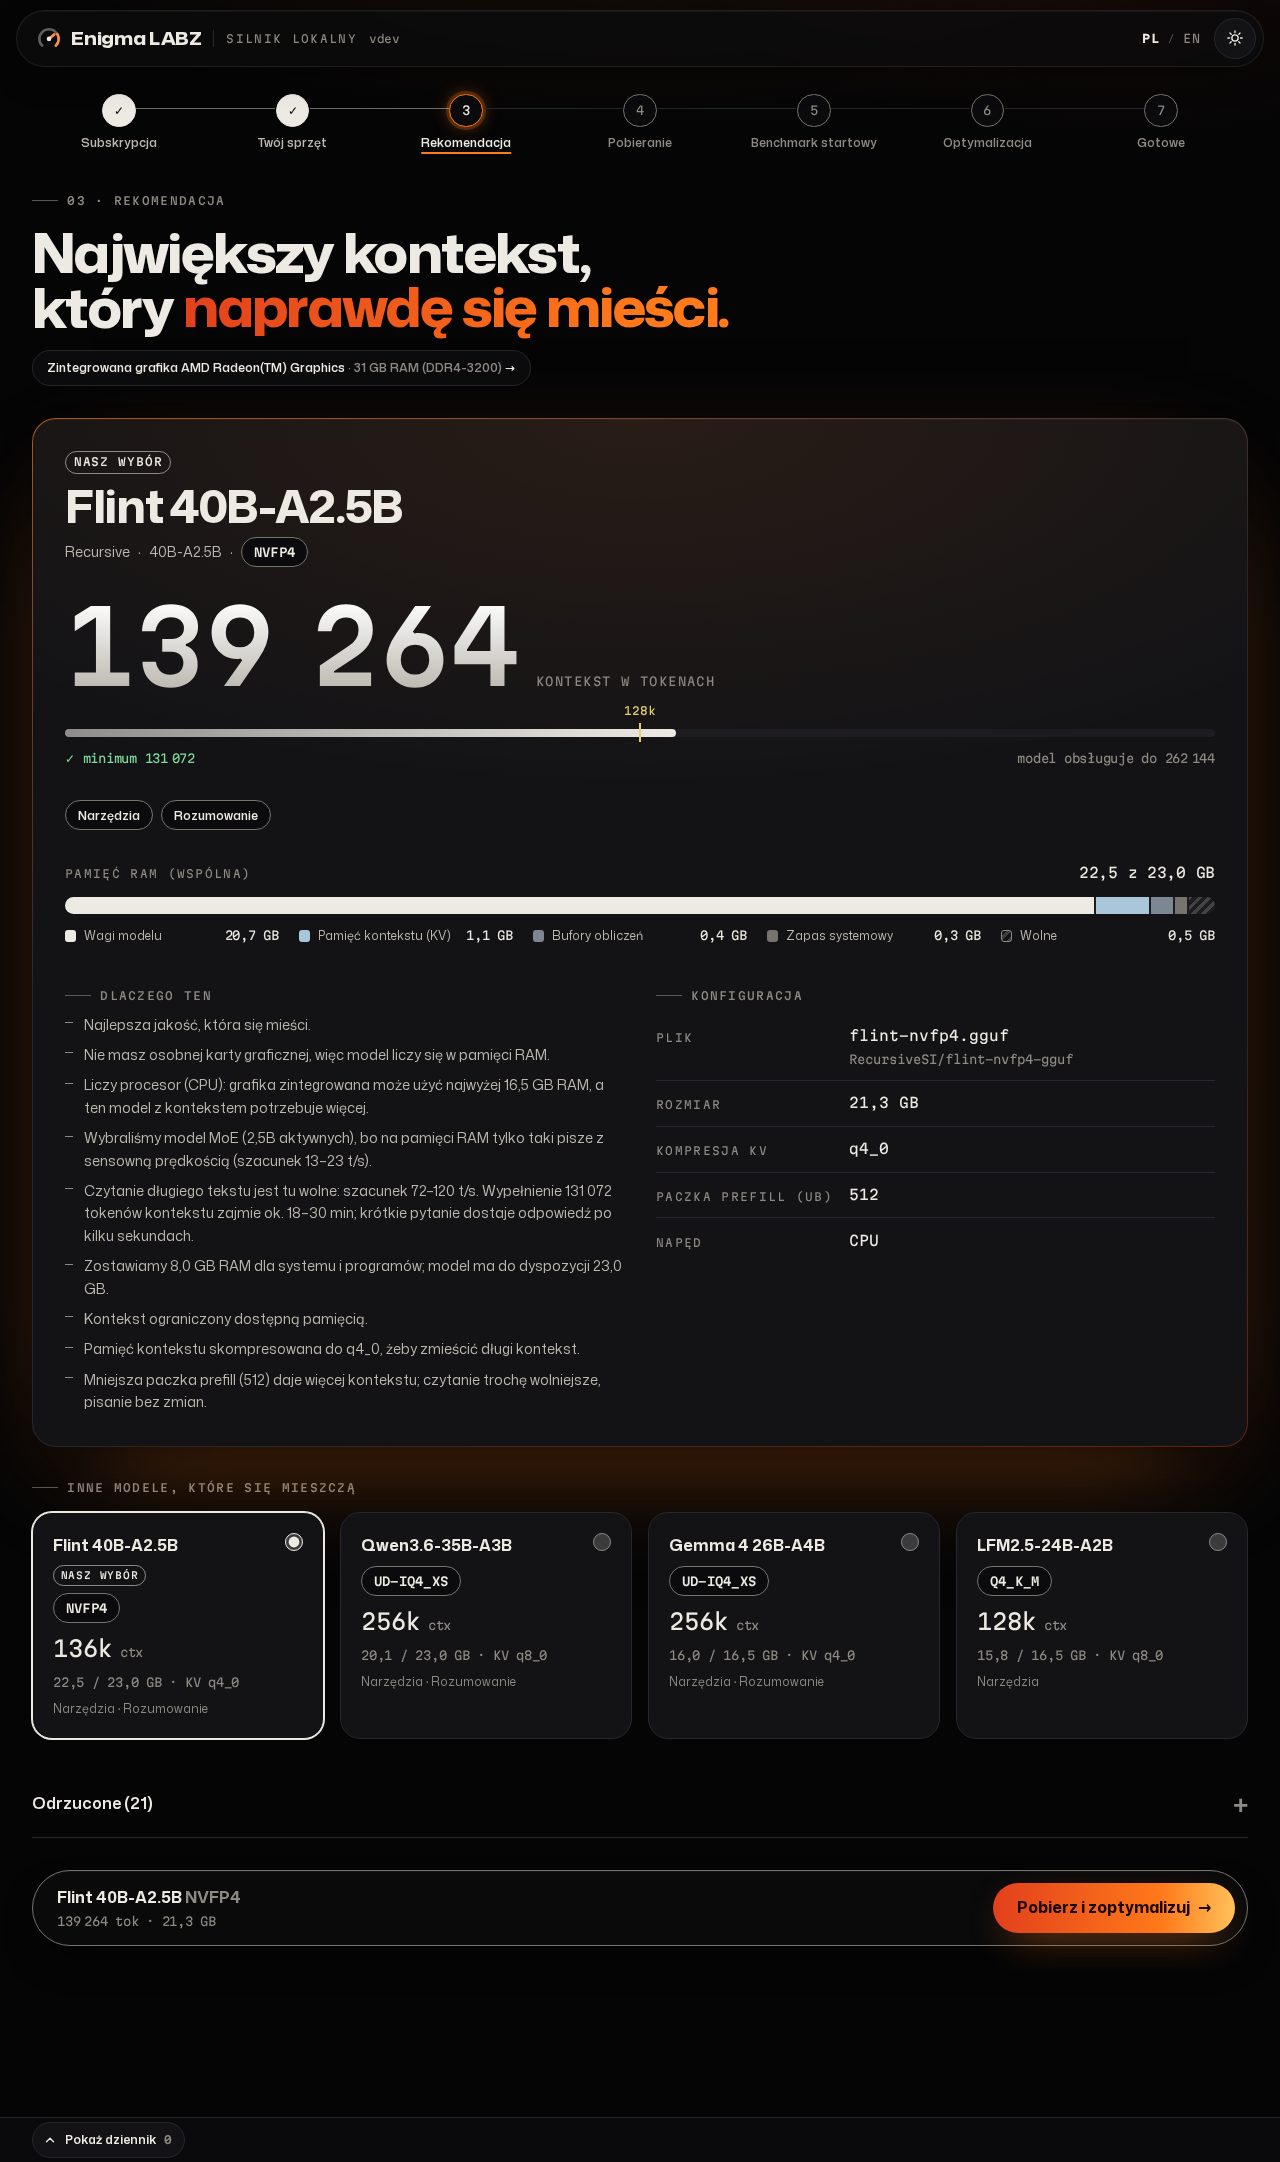
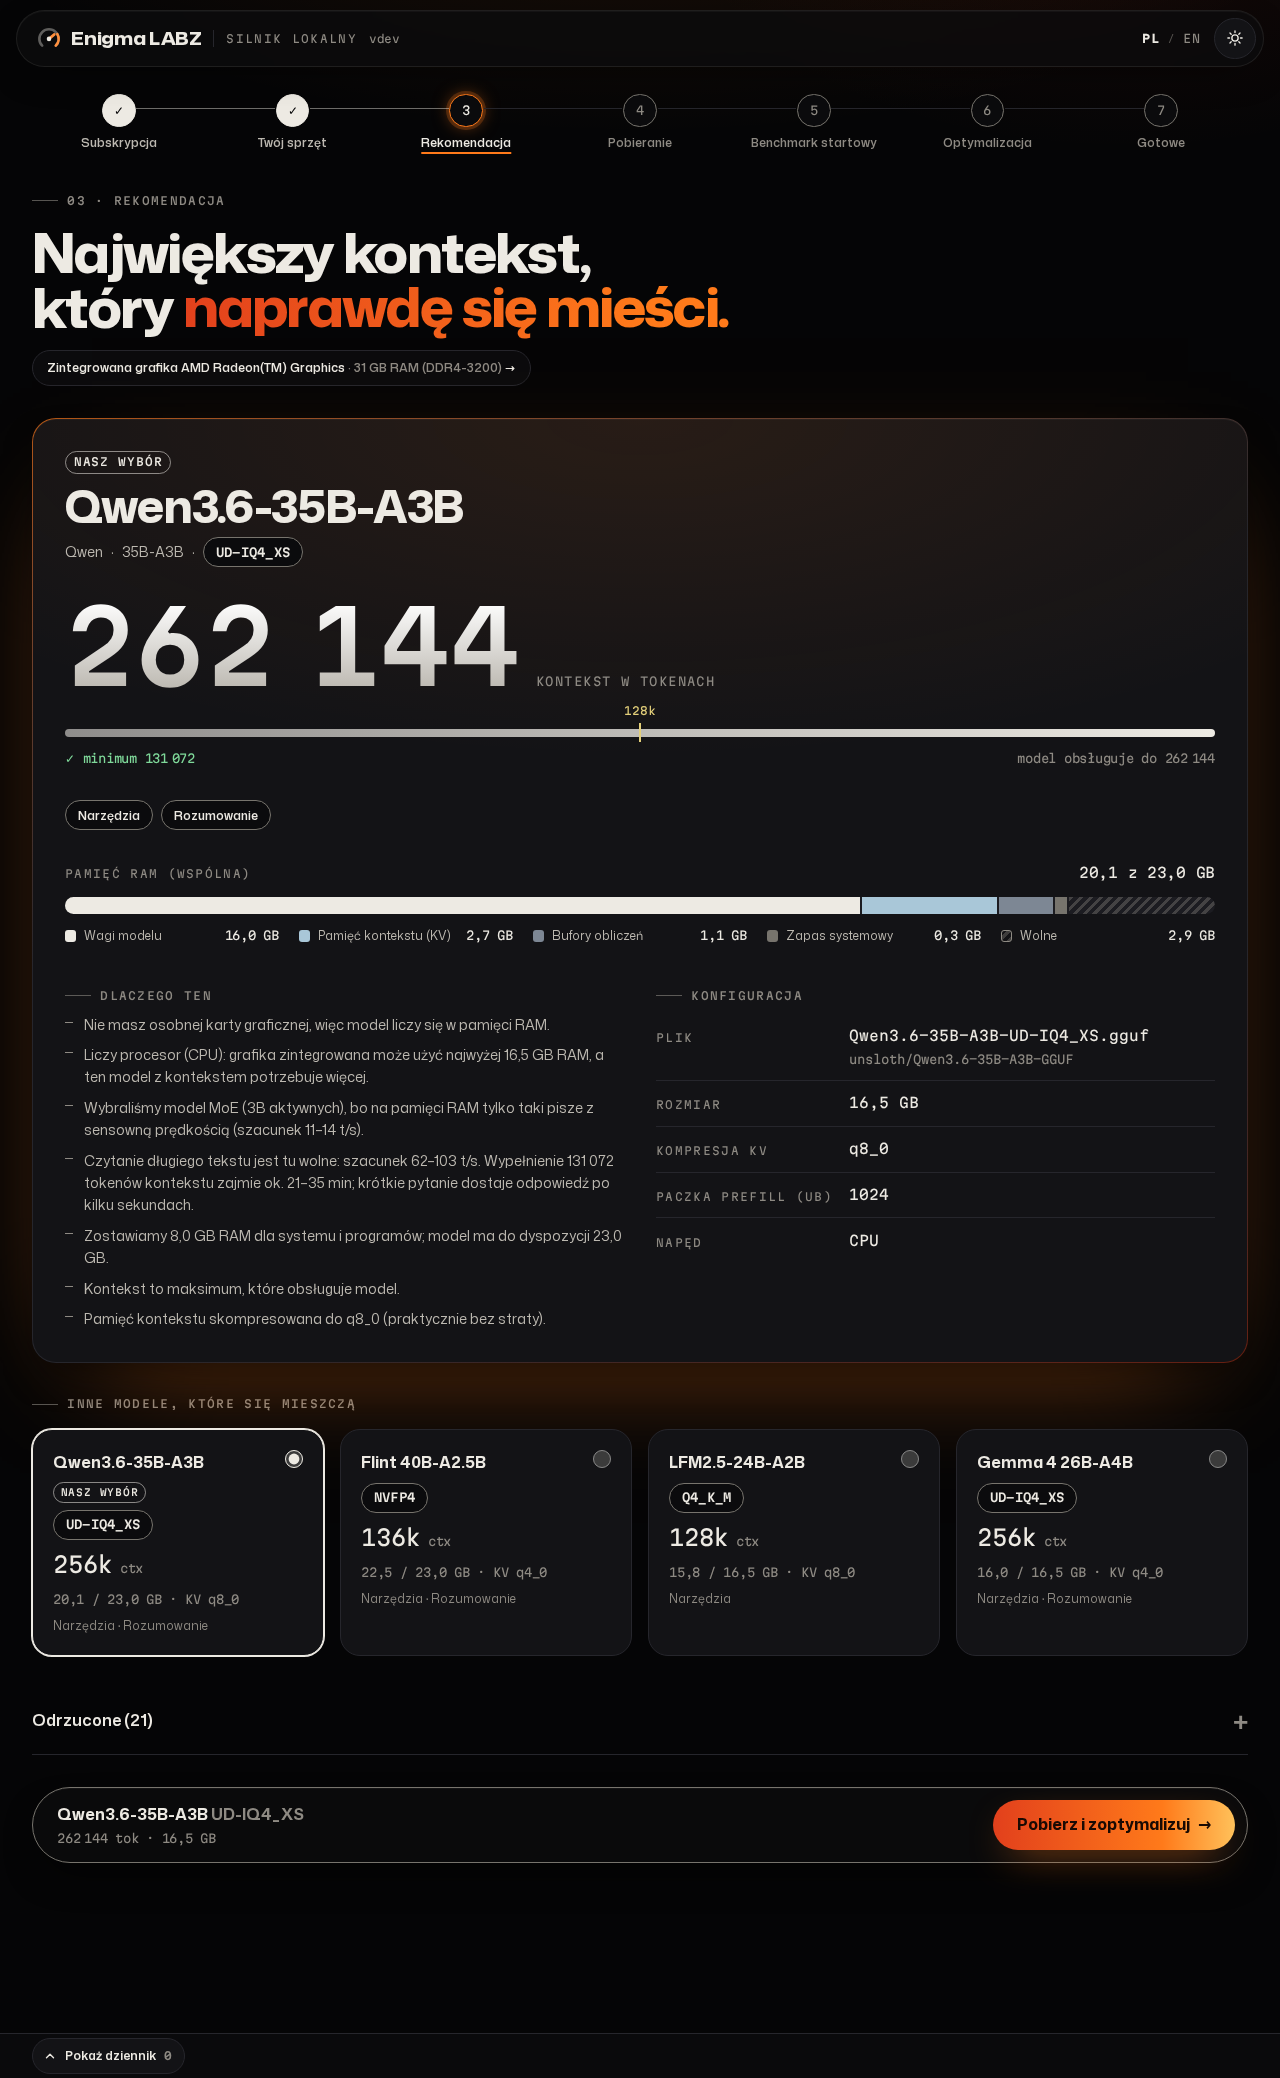
app/engine: ranking — zmierzona prędkość na tej klasie sprzętu wygrywa z szacowaną, chyba że szacunek > 20% wyżej; plany RAM z < 3% wolnego obniżane (tight_memory); APU 31 GB DDR4 → Qwen3.6-35B-A3B UD-IQ4_XS 262144 CPU (Flint alternatywą); wybory na kartach/Apple bez zmian; przebieg CPU dev skompilo

diff --git a/app/engine/src/server/catalog/index.ts b/app/engine/src/server/catalog/index.ts
@@ -34,6 +34,11 @@ const IGPU_SHARED_DEFAULT = 0.5;
 const BACKEND_ORDER: Backend[] = ['cuda', 'rocm', 'metal', 'vulkan'];
 /** ub 512 is chosen when it buys at least this much more context than ub 1024. */
 const UB512_GAIN = 1.08;
+/** A measured speed beats an estimated one unless the estimate's score is more than 20% higher. */
+const UNMEASURED_MARGIN = 1.2;
+/** RAM-bound plans with less than 3% of the budget free are demoted by this factor (`tight_memory`). */
+const TIGHT_FREE = 0.03;
+const TIGHT_DEMOTE = 0.8;
 /** Build number of the pinned upstream llama.cpp release (data/engines.json `upstream.tag`, "b<N>"). */
 const PINNED_BUILD = Number(/^b(\d+)$/.exec(engines.upstream.tag)?.[1] ?? 0);
 
@@ -216,14 +221,23 @@ function evaluate(m: CatalogModel, q: QuantFile, d: Device, hw: Hw, minCtx: numb
   const faster = ram ? gpuFaster(m, ram) : null;
   if (faster) why.push(`gpu_faster:${faster}`);
 
+  // Ranking: a speed we measured on this hardware class (this GPU; for RAM-bound machines our CPU run of the model)
+  // beats an estimate unless the estimate's score is more than UNMEASURED_MARGIN higher; on RAM-bound machines a plan
+  // that leaves under TIGHT_FREE of its budget free is demoted (the system and the user's programs share that RAM).
+  const mem = memPlan(m, q, config(d, ctx, kvType, ub, spec), d.budgetMiB / 1024);
+  const measured = ram ? (m.ramMeasured?.length ?? 0) > 0 : gpuSpeed?.measured === true;
+  const tight = ram !== null && mem.freeGiB < mem.budgetGiB * TIGHT_FREE;
+  if (tight) why.push('tight_memory');
+  const rank = score(m, q, tps, spec) / (measured ? 1 : UNMEASURED_MARGIN) * (tight ? TIGHT_DEMOTE : 1);
+
   return {
     id: `${m.id}/${q.quant}/${d.backend}${d.gpuIndex === null ? '' : `/${d.gpuIndex}`}`,
     modelId: m.id, name: m.name, family: m.family, params: m.params, quant: q.quant,
     file: { repo: q.repo, path: q.path, sizeBytes: q.sizeBytes, sha256: q.sha256 },
     ctx, ctxMax: m.ctxMax, kvType, ub, backend: d.backend, gpuIndex: d.gpuIndex,
-    mem: memPlan(m, q, config(d, ctx, kvType, ub, spec), d.budgetMiB / 1024),
+    mem,
     features: m.features.filter((f) => f !== 'mtp' || spec),
-    score: Math.round(score(m, q, tps, spec) * 100) / 100,
+    score: Math.round(rank * 100) / 100,
     why,
   };
 }

diff --git a/app/engine/test/catalog.test.ts b/app/engine/test/catalog.test.ts
@@ -218,7 +218,17 @@ describe('machines without a discrete GPU (integrated graphics or none): the mod
     expect(pick.backend).toBe('cpu');
     expect(pick.mem.budgetGiB).toBe(23);
     expect(pick.why).toContain('cpu_igpu_pool:16.5');
-    expect(pick.ctx).toBeGreaterThanOrEqual(131072);
+    // measured beats estimated: Qwen3.6-35B-A3B (13.1 t/s measured on the same CPU class) over the unmeasured Flint,
+    // whose 22.5 of 23 GB plan also leaves < 3% free (tight_memory)
+    expect(pick).toMatchObject({ modelId: 'qwen36-35b-a3b', quant: 'UD-IQ4_XS', ctx: 262144, backend: 'cpu', gpuIndex: null });
+    const flint = r.alternatives.find((o) => o.modelId === 'flint-40b-a2.5b');
+    const flintRejected = r.rejected.find((x) => x.modelId === 'flint-40b-a2.5b');
+    expect(flint !== undefined || flintRejected !== undefined).toBe(true);
+    if (flint) {
+      expect(flint.why).toContain('tight_memory');
+      expect(flint.score).toBeLessThan(pick.score);
+    }
+    expect(pick.why).not.toContain('tight_memory');
     for (const o of r.alternatives.filter((x) => x.backend === 'vulkan')) expect(o.mem.budgetGiB).toBe(16.5);
     // dense Qwen3.8-27B: ~2–3 t/s on DDR4 dual channel (we measured 2.29 for Q4_K_XL on a Ryzen 7 5700X)
     const dense = r.rejected.find((x) => x.modelId === 'qwen38-27b' && x.quant === 'UD-Q3_K_XL')?.reason ?? '';

diff --git a/app/engine/src/ui/lib/reasons.ts b/app/engine/src/ui/lib/reasons.ts
@@ -120,6 +120,10 @@ const WHY: Record<string, Record<Lang, Render>> = {
 		pl: (v) => `Z kartą graficzną 16–24 GB ten model pisałby ${range(v)}× szybciej (nasze pomiary na takich kartach).`,
 		en: (v) => `With a 16–24 GB graphics card this model would write ${range(v)}× faster (our measurements on such cards).`
 	},
+	tight_memory: {
+		pl: () => 'Mało zapasu: zostaje mniej niż 3% pamięci, więc stawiamy ten wariant niżej (system i Twoje programy dzielą ten sam RAM).',
+		en: () => 'Little headroom: under 3% of the memory stays free, so we rank this option lower (the system and your programs share the same RAM).'
+	},
 	license_conditional: {
 		pl: () => 'Licencja LFM: użycie komercyjne do 10 mln USD przychodu rocznie.',
 		en: () => 'LFM licence: commercial use up to USD 10 million annual revenue.'

diff --git a/app/engine/README.md b/app/engine/README.md
@@ -44,10 +44,10 @@ cpuheavy --quiet bun src/server/main.ts run --headless --license-file ~/.secrets
     --model qwen36-35b-a3b/UD-IQ4_XS/cpu --exit-when-ready
 ```
 
-Na CPU katalog wybiera teraz MoE z małą liczbą aktywnych parametrów (patrz niżej); w labie (62 GB DDR4-3200) top 4 to
-Flint 40B-A2.5B, Qwen3.6-35B-A3B UD-IQ4_XS, Gemma 4 26B-A4B, LFM2.5-24B-A2B, a `--model` musi być jedną z nich
-(Qwen3.6 leży w `~/models/q36`). Wcześniejszy zapis przebiegu (jeszcze z regułą „tylko małe modele na CPU”, LFM2.5-2.6B
-przy `--min-ctx 128000`): [`test/e2e/cpu-dev-transcript.txt`](test/e2e/cpu-dev-transcript.txt).
+Na CPU katalog wybiera MoE z małą liczbą aktywnych parametrów (patrz niżej); w labie (62 GB DDR4-3200) czwórka to
+Flint 40B-A2.5B, Qwen3.6-35B-A3B UD-IQ4_XS, LFM2.5-24B-A2B, Gemma 4 26B-A4B, a `--model` musi być jedną z nich (Qwen3.6
+leży w `~/models/q36`). Przebieg skompilowaną binarką (`dist/bin/enigma-linux-x64`, `ENIGMA_BENCH_REPS=1`, ~8 min,
+exit 0, 262 144 ctx, decode 9,1 t/s na 2 rdzeniach `cpuheavy`): [`test/e2e/cpu-dev-transcript.txt`](test/e2e/cpu-dev-transcript.txt).
 
 Build CPU llama.cpp (raz): `cd ~/wt/upstream && cpuheavy --quiet cmake -S . -B build-cpu -DCMAKE_BUILD_TYPE=Release
 -DGGML_HIP=OFF -DGGML_CUDA=OFF -DLLAMA_CURL=OFF -DLLAMA_USE_PREBUILT_UI=OFF && cpuheavy --quiet cmake --build
@@ -66,7 +66,9 @@ Linux ≥ 6 GB lub 20%); grafika zintegrowana (Vulkan) dostaje najwyżej to, co 
 budżet; ten sam model × kwant woli grafikę zintegrowaną. Prędkość pisania = η × przepustowość RAM / bajty na token
 (aktywne wagi + KV), skalibrowana pomiarami na naszym CPU (Ryzen 7 5700X, DDR4-3200 ×2, `ramMeasured` w katalogu:
 Qwen3.6-35B-A3B IQ4_XS 13,1 t/s, LFM2.5-24B Q5_K_M 23,0, Qwen3.8-27B Q4_K_XL 2,3); pokazywana jako zakres. Opcje
-poniżej 8 t/s są odrzucane (`too_slow_on_this_hw`).
+poniżej 8 t/s są odrzucane (`too_slow_on_this_hw`). W rankingu prędkość zmierzona na tej klasie sprzętu wygrywa z
+szacowaną, chyba że szacowana opcja ma wynik wyższy o > 20%; plan z < 3% wolnego budżetu RAM jest obniżany
+(`tight_memory`). Przykład: APU z 31 GB DDR4-3200 → Qwen3.6-35B-A3B UD-IQ4_XS, 262 144 ctx, CPU, 11–14 t/s.
 
 ## Build binarek
 

diff --git a/app/engine/CONTRACT.md b/app/engine/CONTRACT.md
@@ -119,11 +119,14 @@ interface AppState { phase:Phase; license:LicenseInfo|null; hw:Hw|null; recommen
   modelu na naszym CPU (`ramMeasured` w katalogu, ±15/10%) albo dense 0,6–0,75 / MoE 0,4–0,7; prefill = pomiar/rdzeń ×
   rdzenie (inaczej 75 GFLOP/s/rdzeń), dolna granica × 0,6 (długi prompt). Decode < 8 t/s (środek zakresu, także na
   kartach) → `too_slow_on_this_hw:<t/s>`.
+- Ranking (`Option.score`): jakość × współczynnik kwantu × użyteczność prędkości, potem prędkość zmierzona na tej klasie
+  sprzętu (punkt `measured` dla tej karty; na RAM-bound `ramMeasured` modelu) wygrywa z szacowaną, chyba że szacowana ma
+  wynik wyższy o > 20% (szacunek / 1,2); na RAM-bound plan z < 3% wolnego budżetu × 0,8 (`tight_memory`).
 - `why[]` / `rejected[].reason` = kody `kod` albo `kod:wartość`: why — `quality_best`, `speed_measured:<t/s>`,
   `speed_estimated:<t/s>`, `mtp_head`, `mtp_no_memory` (plik ma głowicę MTP, ale kontekst draftu się nie mieści; opcja
   bez 'mtp' w features), `moe_fast`, `ctx_model_max`, `ctx_memory_limit`, `kv_q8_0|kv_q4_0|kv_f16`,
   `ub512_for_ctx` (ub 512: osiąga min. kontekst albo daje ≥ 8% więcej; wolniejszy prefill, decode bez zmian),
-  `unified_memory` (Apple), `windows_reserve`, `license_conditional`; RAM-bound — `no_dgpu_ram`, `igpu_backend:<backend>`,
+  `unified_memory` (Apple), `windows_reserve`, `license_conditional`, `tight_memory`; RAM-bound — `no_dgpu_ram`, `igpu_backend:<backend>`,
   `cpu_igpu_pool:<GiB>` (liczy CPU, bo model nie mieści się w pamięci grafiki zintegrowanej), `cpu_only`,
   `speed_ram_moe:<aktywne B>/<lo>-<hi>` | `speed_ram_dense:<parametry B>/<lo>-<hi>` (t/s), `prefill_ram:<lo>-<hi>/<minCtx>`,
   `ram_reserve:<zapas GiB>/<budżet GiB>`, `gpu_faster:<lo>-<hi>` (tylko gdy katalog ma pomiar tego modelu na karcie
